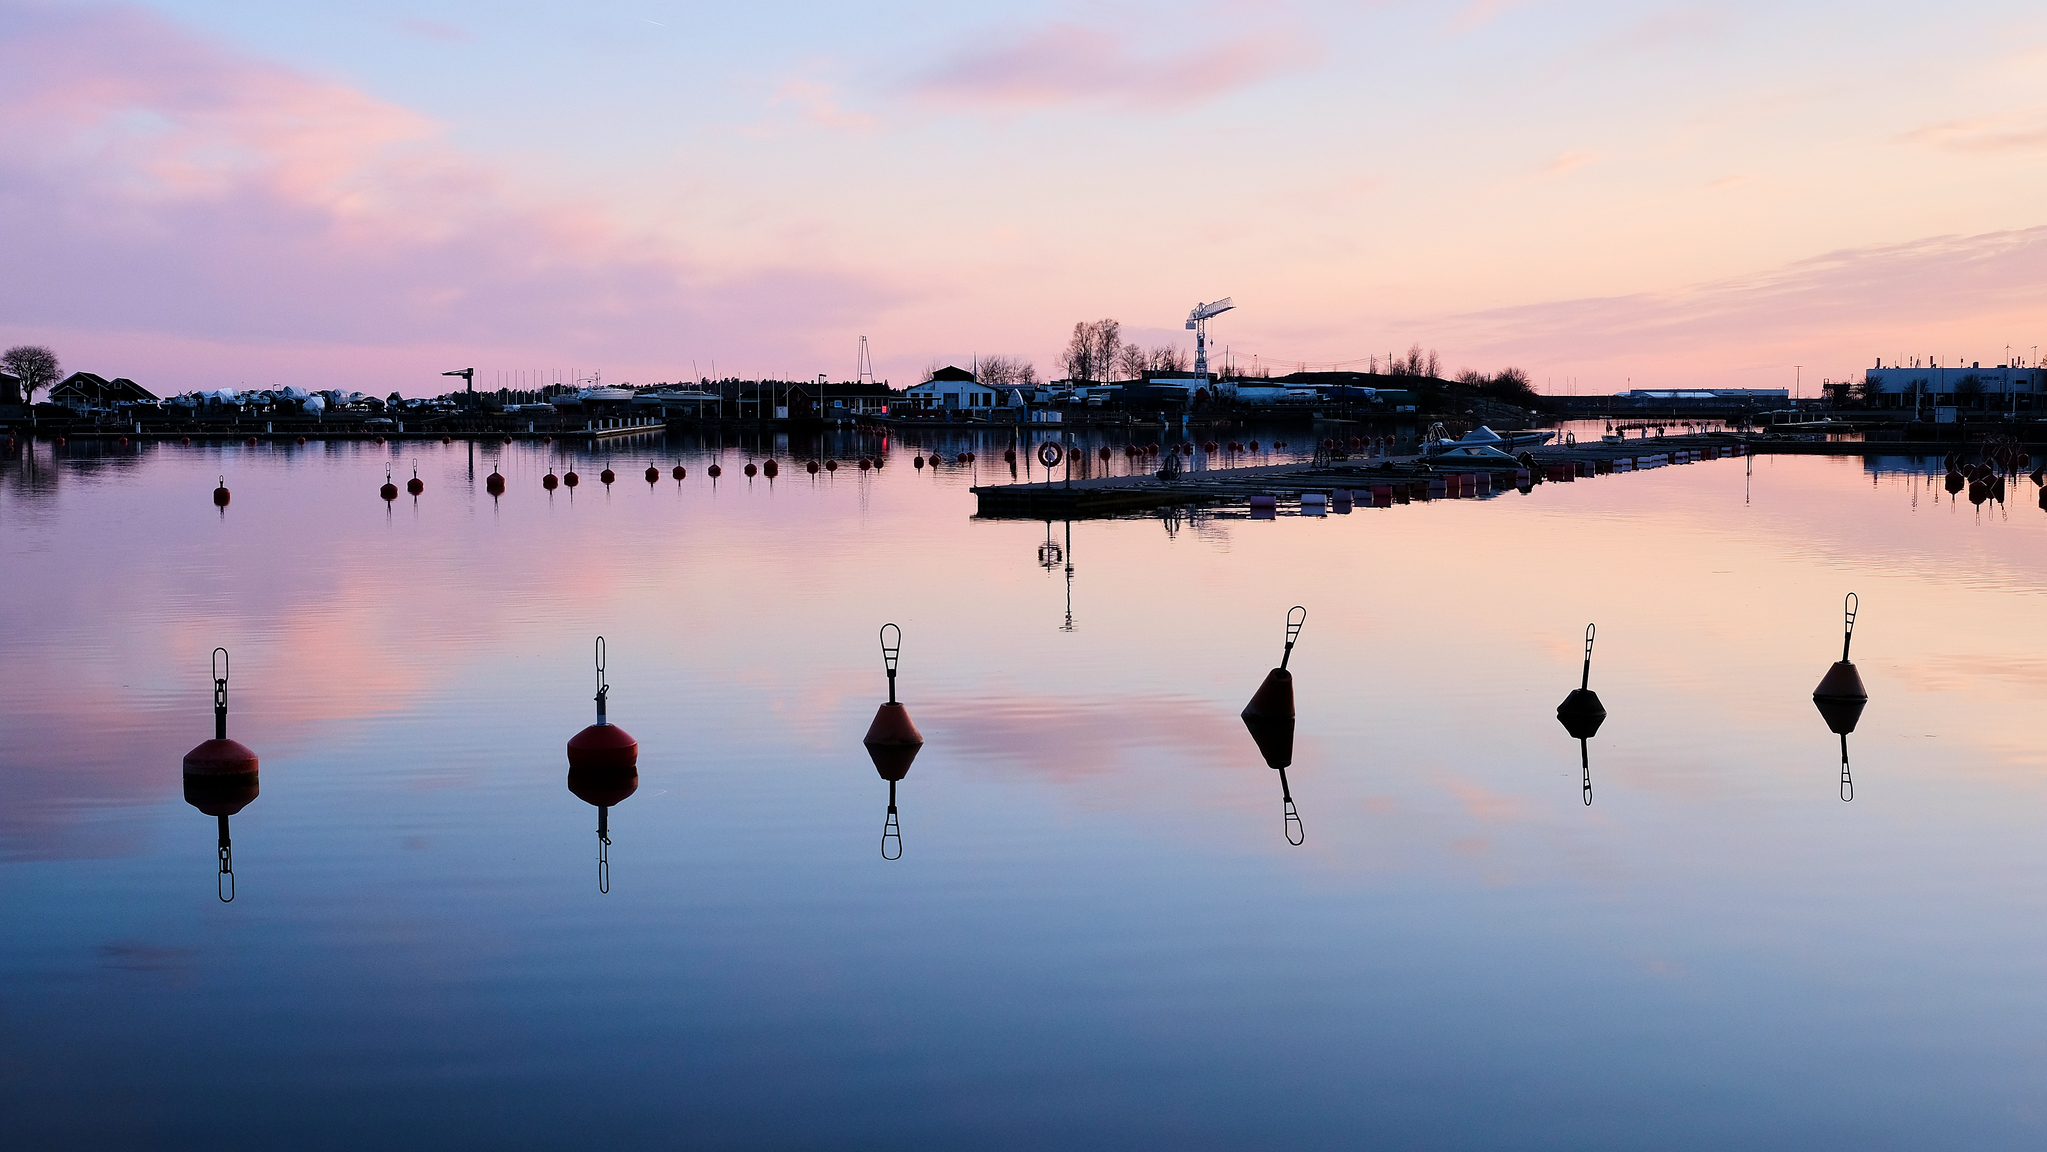
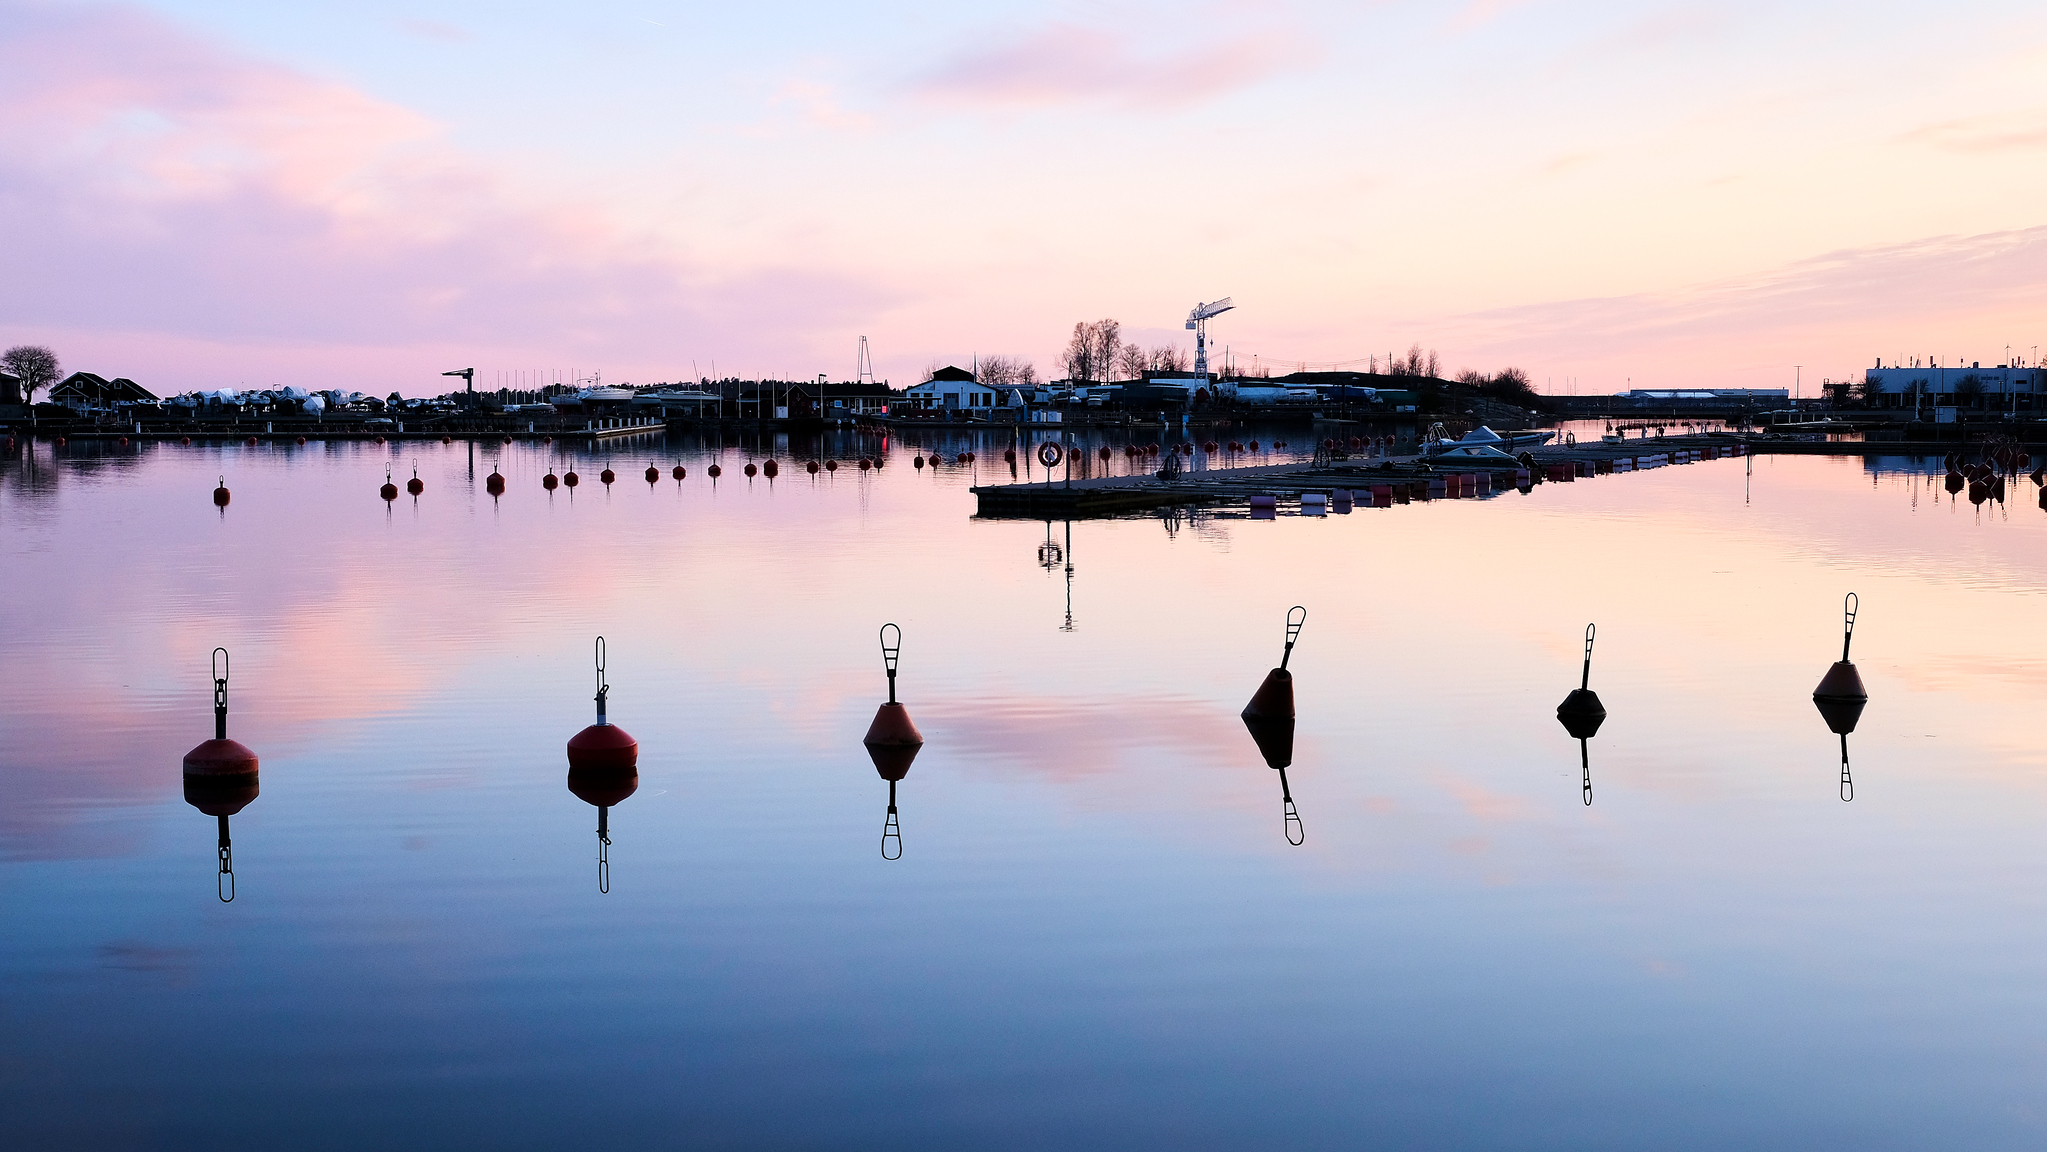
Add images

diff --git a/docs/wide/index.html b/docs/wide/index.html
@@ -273,7 +273,7 @@
   
   <a
     class="gatsby-resp-image-link"
-    href="/static/9503366d0a11cc2adf3d15afbbd1726b/e00d8/DSF6423.jpg"
+    href="/static/63afa28612d2e358e3f87e413cabe0d5/e00d8/DSF6423.jpg"
     style="display: block"
     target="_blank"
     rel="noopener"
@@ -285,32 +285,32 @@
   >
     <span
       class="gatsby-resp-image-background-image"
[2 lines of base64/hex data omitted]
     >
       <picture>
         <source
-          srcset="/static/9503366d0a11cc2adf3d15afbbd1726b/601b1/DSF6423.webp 500w,
-/static/9503366d0a11cc2adf3d15afbbd1726b/80c60/DSF6423.webp 1000w,
-/static/9503366d0a11cc2adf3d15afbbd1726b/fab06/DSF6423.webp 2000w,
-/static/9503366d0a11cc2adf3d15afbbd1726b/60834/DSF6423.webp 2047w"
+          srcset="/static/63afa28612d2e358e3f87e413cabe0d5/601b1/DSF6423.webp 500w,
+/static/63afa28612d2e358e3f87e413cabe0d5/80c60/DSF6423.webp 1000w,
+/static/63afa28612d2e358e3f87e413cabe0d5/fab06/DSF6423.webp 2000w,
+/static/63afa28612d2e358e3f87e413cabe0d5/60834/DSF6423.webp 2047w"
           sizes="(max-width: 2000px) 100vw, 2000px"
           type="image/webp"
         />
         <source
-          srcset="/static/9503366d0a11cc2adf3d15afbbd1726b/953fe/DSF6423.jpg 500w,
-/static/9503366d0a11cc2adf3d15afbbd1726b/0a251/DSF6423.jpg 1000w,
-/static/9503366d0a11cc2adf3d15afbbd1726b/451a4/DSF6423.jpg 2000w,
-/static/9503366d0a11cc2adf3d15afbbd1726b/e00d8/DSF6423.jpg 2047w"
+          srcset="/static/63afa28612d2e358e3f87e413cabe0d5/953fe/DSF6423.jpg 500w,
+/static/63afa28612d2e358e3f87e413cabe0d5/0a251/DSF6423.jpg 1000w,
+/static/63afa28612d2e358e3f87e413cabe0d5/451a4/DSF6423.jpg 2000w,
+/static/63afa28612d2e358e3f87e413cabe0d5/e00d8/DSF6423.jpg 2047w"
           sizes="(max-width: 2000px) 100vw, 2000px"
           type="image/jpeg"
         />
         <img
           class="gatsby-resp-image-image"
           style="width: 100%; height: 100%; margin: 0; vertical-align: middle; position: absolute; top: 0; left: 0; box-shadow: inset 0px 0px 0px 400px white;"
-          src="/static/9503366d0a11cc2adf3d15afbbd1726b/451a4/DSF6423.jpg"
+          src="/static/63afa28612d2e358e3f87e413cabe0d5/451a4/DSF6423.jpg"
           alt="Helsinki, Finland"
           title="Helsinki, Finland"
-          src="/static/9503366d0a11cc2adf3d15afbbd1726b/451a4/DSF6423.jpg"
+          src="/static/63afa28612d2e358e3f87e413cabe0d5/451a4/DSF6423.jpg"
         />
       </picture>
       </span>
@@ -326,7 +326,7 @@
   
   <a
     class="gatsby-resp-image-link"
-    href="/static/7599b45339928465d4e8ee4503f9d28e/09658/DSF6618.jpg"
+    href="/static/5fac6eea5ac74209618d39247a27d7fb/09658/DSF6618.jpg"
     style="display: block"
     target="_blank"
     rel="noopener"
@@ -338,32 +338,32 @@
   >
     <span
       class="gatsby-resp-image-background-image"
[2 lines of base64/hex data omitted]
     >
       <picture>
         <source
-          srcset="/static/7599b45339928465d4e8ee4503f9d28e/601b1/DSF6618.webp 500w,
-/static/7599b45339928465d4e8ee4503f9d28e/80c60/DSF6618.webp 1000w,
-/static/7599b45339928465d4e8ee4503f9d28e/fab06/DSF6618.webp 2000w,
-/static/7599b45339928465d4e8ee4503f9d28e/96d48/DSF6618.webp 2048w"
+          srcset="/static/5fac6eea5ac74209618d39247a27d7fb/601b1/DSF6618.webp 500w,
+/static/5fac6eea5ac74209618d39247a27d7fb/80c60/DSF6618.webp 1000w,
+/static/5fac6eea5ac74209618d39247a27d7fb/fab06/DSF6618.webp 2000w,
+/static/5fac6eea5ac74209618d39247a27d7fb/96d48/DSF6618.webp 2048w"
           sizes="(max-width: 2000px) 100vw, 2000px"
           type="image/webp"
         />
         <source
-          srcset="/static/7599b45339928465d4e8ee4503f9d28e/953fe/DSF6618.jpg 500w,
-/static/7599b45339928465d4e8ee4503f9d28e/0a251/DSF6618.jpg 1000w,
-/static/7599b45339928465d4e8ee4503f9d28e/451a4/DSF6618.jpg 2000w,
-/static/7599b45339928465d4e8ee4503f9d28e/09658/DSF6618.jpg 2048w"
+          srcset="/static/5fac6eea5ac74209618d39247a27d7fb/953fe/DSF6618.jpg 500w,
+/static/5fac6eea5ac74209618d39247a27d7fb/0a251/DSF6618.jpg 1000w,
+/static/5fac6eea5ac74209618d39247a27d7fb/451a4/DSF6618.jpg 2000w,
+/static/5fac6eea5ac74209618d39247a27d7fb/09658/DSF6618.jpg 2048w"
           sizes="(max-width: 2000px) 100vw, 2000px"
           type="image/jpeg"
         />
         <img
           class="gatsby-resp-image-image"
           style="width: 100%; height: 100%; margin: 0; vertical-align: middle; position: absolute; top: 0; left: 0; box-shadow: inset 0px 0px 0px 400px white;"
-          src="/static/7599b45339928465d4e8ee4503f9d28e/451a4/DSF6618.jpg"
+          src="/static/5fac6eea5ac74209618d39247a27d7fb/451a4/DSF6618.jpg"
           alt="Helsinki, Finland"
           title="Helsinki, Finland"
-          src="/static/7599b45339928465d4e8ee4503f9d28e/451a4/DSF6618.jpg"
+          src="/static/5fac6eea5ac74209618d39247a27d7fb/451a4/DSF6618.jpg"
         />
       </picture>
       </span>
